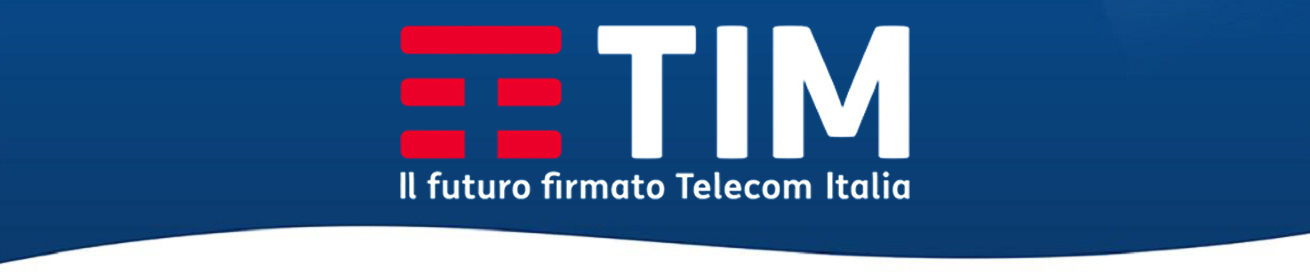
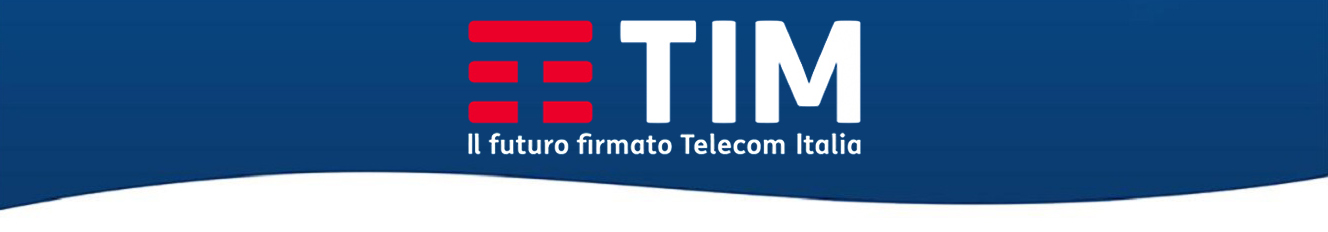
aggiustata immagine homepage

Changed region(s): [[0.0, 0.0603, 1.0, 0.9353]]

diff --git a/pages/prodotti.html b/pages/prodotti.html
@@ -1,0 +1,34 @@
+<!DOCTYPE html>
+<html>
+    <head>
+        <meta charset="utf-8">
+        <meta name="viewport" content="width=device-width, initial-scale=1">
+        
+        <title>TIM</title>
+        
+        <link rel="stylesheet" href="http://maxcdn.bootstrapcdn.com/bootstrap/3.3.6/css/bootstrap.min.css">
+        <link href="../stylesheets/header.css" rel="stylesheet">
+        <link href="../stylesheets/footer.css" rel="stylesheet">
+        
+        
+        <script src="https://ajax.googleapis.com/ajax/libs/jquery/1.12.4/jquery.min.js"></script>
+        <script src="http://maxcdn.bootstrapcdn.com/bootstrap/3.3.6/js/bootstrap.min.js"></script>
+        <script src="//code.jquery.com/jquery-1.10.2.js"></script>
+        
+        <script>
+            $(document).ready(function() {
+                $("#header").load("../include/header.html");
+                $("#footer").load("../include/footer.html");
+            });
+        </script>
+        
+    </head>
+   
+    <body>
+            <div id="header"></div><br/>
+            <div id="content">
+            Main Content
+            </div><br/>
+            <div id="footer"></div>
+    </body>
+</html>

diff --git a/stylesheets/category.css b/stylesheets/category.css
@@ -1,0 +1,34 @@
+<!DOCTYPE html>
+<html>
+    <head>
+        <meta charset="utf-8">
+        <meta name="viewport" content="width=device-width, initial-scale=1">
+        
+        <title>TIM</title>
+        
+        <link rel="stylesheet" href="http://maxcdn.bootstrapcdn.com/bootstrap/3.3.6/css/bootstrap.min.css">
+        <link href="../stylesheets/header.css" rel="stylesheet">
+        <link href="../stylesheets/footer.css" rel="stylesheet">
+        
+        
+        <script src="https://ajax.googleapis.com/ajax/libs/jquery/1.12.4/jquery.min.js"></script>
+        <script src="http://maxcdn.bootstrapcdn.com/bootstrap/3.3.6/js/bootstrap.min.js"></script>
+        <script src="//code.jquery.com/jquery-1.10.2.js"></script>
+        
+        <script>
+            $(document).ready(function() {
+                $("#header").load("../include/header.html");
+                $("#footer").load("../include/footer.html");
+            });
+        </script>
+        
+    </head>
+   
+    <body>
+            <div id="header"></div><br/>
+            <div id="content">
+            Main Content
+            </div><br/>
+            <div id="footer"></div>
+    </body>
+</html>
